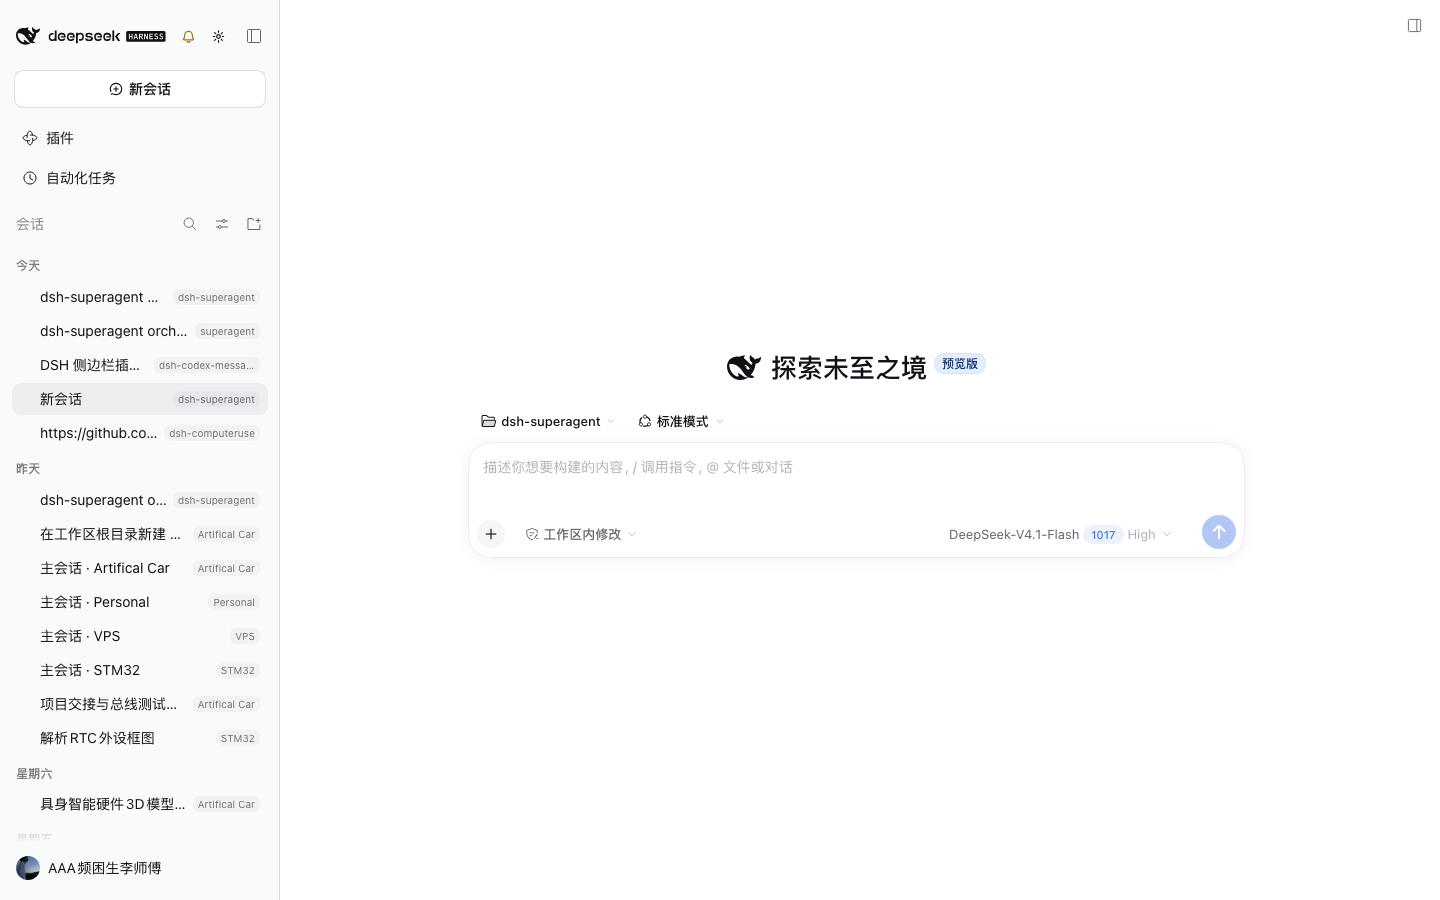
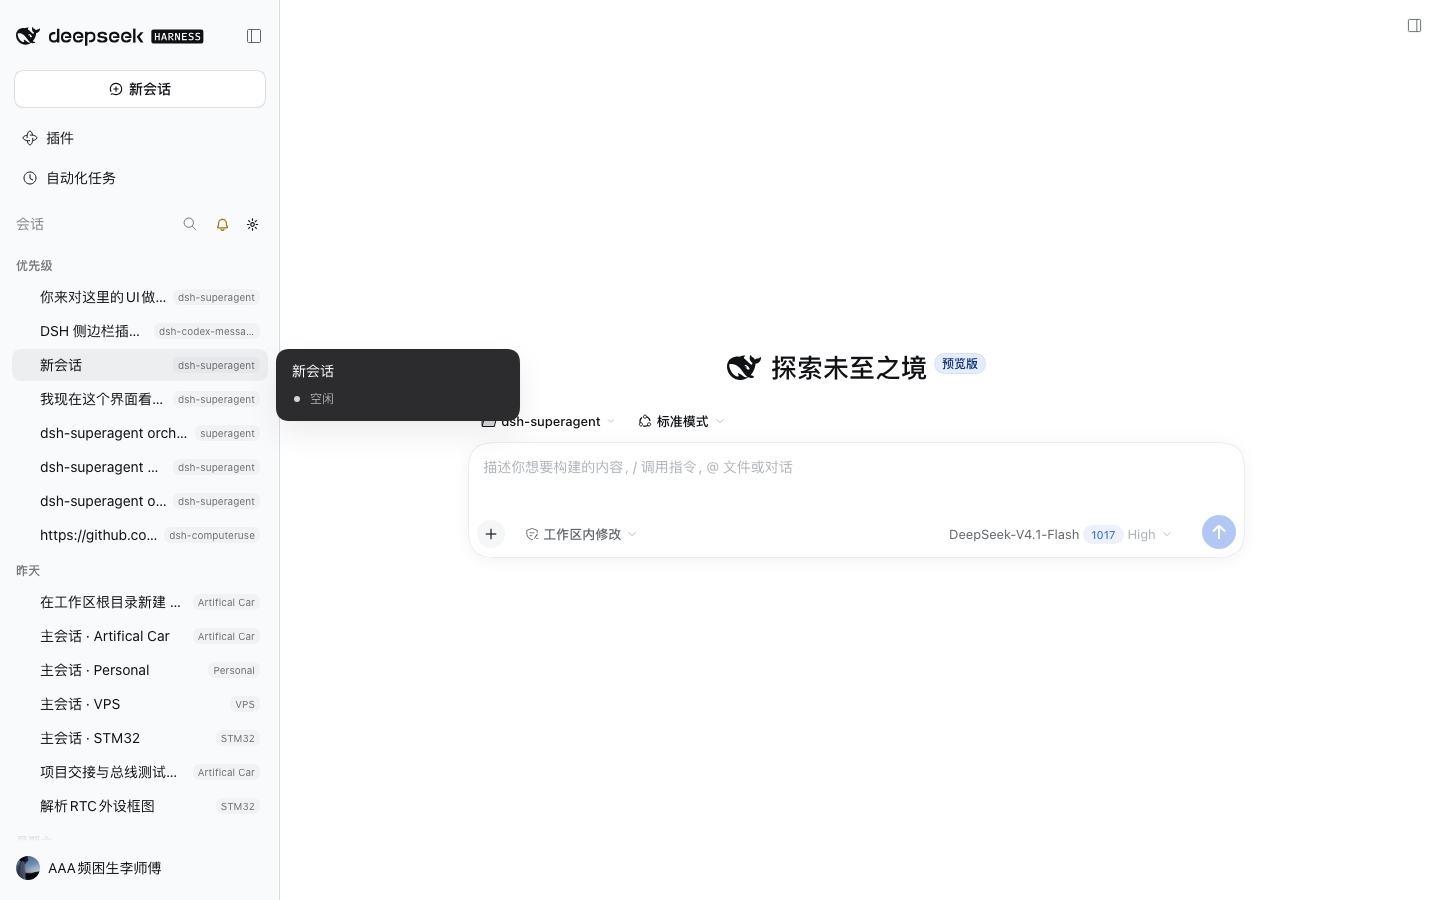
fix(sidebar): 修复悬停抖动，首段改名优先级
标题节点复用 + 只比自有节点相对顺序 + display 幂等 + 观察者跳过自写变动；中文首段由「今天」改为「优先级」，英文 Today→Priority。

diff --git a/lib/client.js b/lib/client.js
@@ -193,7 +193,9 @@ function createHostData(ctx) {
 // src/locale.js
 var LABELS = {
   zh: {
-    today: "\u4ECA\u5929",
+    // 第一段装的是「正在跑的会话 + 今天的会话」，用户要的名字是「优先级」：
+    // 活跃会话被强制提到这一段最前，它才是这段的主语。
+    today: "\u4F18\u5148\u7EA7",
     yesterday: "\u6628\u5929",
     earlier: "\u66F4\u65E9",
     weekdays: ["\u661F\u671F\u65E5", "\u661F\u671F\u4E00", "\u661F\u671F\u4E8C", "\u661F\u671F\u4E09", "\u661F\u671F\u56DB", "\u661F\u671F\u4E94", "\u661F\u671F\u516D"],
@@ -216,7 +218,7 @@ var LABELS = {
     themeNoticeDesc: "\u68C0\u6D4B\u5230 dsh-claude-style\uFF1A\u4FA7\u680F\u7684\u65E5\u671F\u6392\u5217\u4E0E\u9875\u9762\u7F29\u653E\u90FD\u7531\u4E3B\u9898\u8D1F\u8D23\uFF0C\u672C\u63D2\u4EF6\u4E0D\u4FEE\u6539\u4E3B\u9898\u7684\u754C\u9762\u3002\u505C\u7528\u4E3B\u9898\u540E\uFF0C\u672C\u63D2\u4EF6\u4F1A\u81EA\u52A8\u63A5\u7BA1\u65E5\u671F\u89C6\u56FE\u4E0E\u7F29\u653E\u3002"
   },
   en: {
-    today: "Today",
+    today: "Priority",
     yesterday: "Yesterday",
     earlier: "Earlier",
     weekdays: ["Sunday", "Monday", "Tuesday", "Wednesday", "Thursday", "Friday", "Saturday"],
@@ -918,45 +920,43 @@ function createDateView({ hostData, viewStore, locale, refreshBell, prepareEnabl
         const time = typeof updatedAt === "number" ? updatedAt : 0;
         const running = state?.running === true;
         const bucket = running ? { text: copy.today, rank: 0 } : bucketOf(time, now, copy);
-        seat.style.display = "";
+        if (seat.style.display !== "") seat.style.display = "";
         visible.push({ seat, row, time, running, bucket, workspace });
       }
       for (const seat of hiddenSeats) {
-        if (!nextHidden.has(seat)) seat.style.display = "";
+        if (!nextHidden.has(seat) && seat.style.display !== "") seat.style.display = "";
       }
-      for (const seat of nextHidden) seat.style.display = "none";
+      for (const seat of nextHidden) {
+        if (seat.style.display !== "none") seat.style.display = "none";
+      }
       hiddenSeats.clear();
       for (const seat of nextHidden) hiddenSeats.add(seat);
       visible.sort((left, right) => left.bucket.rank - right.bucket.rank || Number(right.running) - Number(left.running) || right.time - left.time);
       for (const item of visible) dressRow(item.row, item.workspace);
+      const spareHeaders = /* @__PURE__ */ new Map();
+      for (const header of headers) {
+        const text = header.textContent ?? "";
+        if (!spareHeaders.has(text)) spareHeaders.set(text, header);
+      }
       const nodes = [];
       let lastText = null;
       for (const item of visible) {
         if (item.bucket.text !== lastText) {
-          nodes.push(createHeader(item.bucket.text));
+          const header = spareHeaders.get(item.bucket.text) ?? createHeader(item.bucket.text);
+          nodes.push(header);
           lastText = item.bucket.text;
         }
         nodes.push(item.seat);
       }
-      const current = [...container.children];
-      const sameOrder = current.length === nodes.length && nodes.every((node, index) => current[index] === node);
-      if (sameOrder) {
-        for (const header of [...headers]) {
-          if (header.parentElement !== container) headers.delete(header);
-        }
-        for (const node of nodes) {
-          if (node.getAttribute?.(OWN_ATTR) !== null) headers.add(node);
-        }
-        return;
-      }
-      for (const header of headers) {
-        if (header.parentElement === container) header.remove();
-      }
+      const wanted = new Set(nodes);
+      const present = [...container.children].filter((child) => wanted.has(child));
+      const inOrder = present.length === nodes.length && present.every((child, index) => child === nodes[index]);
       headers.clear();
-      for (const node of nodes) container.appendChild(node);
       for (const node of nodes) {
         if (node.getAttribute?.(OWN_ATTR) !== null) headers.add(node);
       }
+      if (inOrder) return;
+      for (const node of nodes) container.appendChild(node);
     } finally {
       applying = false;
     }
@@ -1990,7 +1990,14 @@ function applyUnsafe(ctx) {
       dateView.schedule();
     });
   }
-  const observer = new MutationObserver(() => schedule());
+  function isOurMutation(record) {
+    const target = record.target;
+    return target instanceof Element && target.closest("[" + OWN_ATTR + "]") !== null;
+  }
+  const observer = new MutationObserver((records) => {
+    if (records.every(isOurMutation)) return;
+    schedule();
+  });
   observer.observe(document.body, { childList: true, subtree: true });
   const onResize = () => {
     zoom.handleResize();

diff --git a/src/date-view.js b/src/date-view.js
@@ -141,15 +141,17 @@ export function createDateView({ hostData, viewStore, locale, refreshBell, prepa
         const running = state?.running === true
         // 正在运行的会话算作今天：它的更新时间可能很久之前，但用户现在在看它。
         const bucket = running ? { text: copy.today, rank: 0 } : bucketOf(time, now, copy)
-        seat.style.display = ''
+        if (seat.style.display !== '') seat.style.display = ''
         visible.push({ seat, row, time, running, bucket, workspace })
       }
 
       // 2) 上一轮隐藏、这一轮可见的座位要恢复；反过来要隐藏。
       for (const seat of hiddenSeats) {
-        if (!nextHidden.has(seat)) seat.style.display = ''
+        if (!nextHidden.has(seat) && seat.style.display !== '') seat.style.display = ''
       }
-      for (const seat of nextHidden) seat.style.display = 'none'
+      for (const seat of nextHidden) {
+        if (seat.style.display !== 'none') seat.style.display = 'none'
+      }
       hiddenSeats.clear()
       for (const seat of nextHidden) hiddenSeats.add(seat)
 
@@ -163,39 +165,43 @@ export function createDateView({ hostData, viewStore, locale, refreshBell, prepa
       for (const item of visible) dressRow(item.row, item.workspace)
 
       // 5) 生成节点序列：段落变化处插标题。
+      //    标题节点必须复用上一轮的同名节点：每轮都新建的话，下面的「顺序没变」判定永远是 false，
+      //    于是每帧都删标题 + 重排全部座位 → 观察者再次触发 → 自激（实测每秒上千次 DOM 变动，
+      //    表现就是鼠标扫过会话行时整行轻微抖动）。
+      const spareHeaders = new Map()
+      for (const header of headers) {
+        const text = header.textContent ?? ''
+        if (!spareHeaders.has(text)) spareHeaders.set(text, header)
+      }
       const nodes = []
       let lastText = null
       for (const item of visible) {
         if (item.bucket.text !== lastText) {
-          nodes.push(createHeader(item.bucket.text))
+          const header = spareHeaders.get(item.bucket.text) ?? createHeader(item.bucket.text)
+          nodes.push(header)
           lastText = item.bucket.text
         }
         nodes.push(item.seat)
       }
 
-      // 6) 顺序没变就不动 DOM（避免每次数据刷新都抖动）。
-      const current = [...container.children]
-      const sameOrder = current.length === nodes.length && nodes.every((node, index) => current[index] === node)
-      if (sameOrder) {
-        // 标题节点上一步可能被换成新节点，回收掉旧的。
-        for (const header of [...headers]) {
-          if (header.parentElement !== container) headers.delete(header)
-        }
-        for (const node of nodes) {
-          if (node.getAttribute?.(OWN_ATTR) !== null) headers.add(node)
-        }
-        return
-      }
+      // 6) 只比较「我们这套节点」的相对顺序。
+      //    容器里还留着被隐藏的座位（display:none，不删是为了让宿主自己的状态不丢），
+      //    直接拿 container.children 和 nodes 逐位比会永远不相等，于是每帧都重排一遍
+      //    ——这正是鼠标扫过会话行时整行轻微抖动的来源。
+      const wanted = new Set(nodes)
+      const present = [...container.children].filter(child => wanted.has(child))
+      const inOrder = present.length === nodes.length && present.every((child, index) => child === nodes[index])
 
-      // 7) 清掉旧标题、按计划顺序重排：appendChild 对已有节点等价于移动。
-      for (const header of headers) {
-        if (header.parentElement === container) header.remove()
-      }
+      // 7) 标题集合对齐到这串节点（复用的节点留在集合里，落单的回收）。
       headers.clear()
-      for (const node of nodes) container.appendChild(node)
       for (const node of nodes) {
         if (node.getAttribute?.(OWN_ATTR) !== null) headers.add(node)
       }
+      if (inOrder) return
+
+      // 8) 顺序不对才动 DOM：appendChild 对已有节点等价于移动，按顺序 append 一遍即可，
+      //    标题不必删除重建（删了再插会让宿主以为列表结构变了，整片行重渲染）。
+      for (const node of nodes) container.appendChild(node)
     } finally {
       applying = false
     }

diff --git a/.debug/eval-final.js b/.debug/eval-final.js
@@ -1,0 +1,38 @@
+const sleep = ms => new Promise(r => setTimeout(r, ms));
+const waitFor = async (fn, timeout = 4000) => { const t0 = Date.now(); while (Date.now() - t0 < timeout) { const v = fn(); if (v) return v; await sleep(50) } return null };
+const out = {};
+// 关掉首次运行的 Preview Notice
+for (const btn of [...document.querySelectorAll('button')]) {
+  if (/^(Continue|继续)$/i.test((btn.textContent || '').trim())) { btn.click(); await sleep(400); break }
+}
+// 侧栏折叠时先展开
+const openBtn = document.querySelector('button[aria-label="打开侧边栏"], button[aria-label="Open sidebar"]');
+if (openBtn) { openBtn.click(); await sleep(1500) }
+const bell = await waitFor(() => document.querySelector('[data-codex-sidebar-bell]'));
+out.bell = Boolean(bell);
+if (bell && document.body.hasAttribute('data-codex-sidebar-date-view') === false) { bell.click(); await sleep(700) }
+out.dateModeOn = document.body.hasAttribute('data-codex-sidebar-date-view');
+out.headers = [...document.querySelectorAll('[data-codex-sidebar-owned][data-codex-sidebar-date-header]')].length;
+out.chips = document.querySelectorAll('.codex-sidebar-chip').length;
+// 齿轮 → 官方设置页
+const gear = [...document.querySelectorAll('[data-codex-sidebar-owned] button, button[data-codex-sidebar-owned]')].find(b => /Sidebar settings|侧栏设置/.test(b.getAttribute('aria-label') || ''));
+out.gear = Boolean(gear);
+if (gear) {
+  gear.click();
+  const nav = await waitFor(() => { const cells = [...document.querySelectorAll('button')].filter(b => String(b.className).includes('navCell')); return cells.length ? cells : null }, 6000);
+  out.navLabels = nav ? nav.map(b => (b.textContent || '').trim()) : [];
+  out.activeNav = nav ? nav.filter(b => /active/.test(String(b.className))).map(b => (b.textContent || '').trim()) : [];
+  out.cards = document.querySelectorAll('.codex-sidebar-settings-card').length;
+  out.switches = document.querySelectorAll('.codex-sidebar-settings [role="switch"], .codex-sidebar-switch').length;
+  const closeBtn = [...document.querySelectorAll('button')].find(b => /^(Close|关闭)$/.test((b.textContent || '').trim()));
+  if (closeBtn) { closeBtn.click(); await sleep(600) }
+  out.dialogClosed = !document.querySelector('button[class*="navCell"]');
+}
+// 关日期视图 → 还原工作区分组
+if (bell && document.body.hasAttribute('data-codex-sidebar-date-view')) { bell.click(); await sleep(900) }
+out.dateModeOff = !document.body.hasAttribute('data-codex-sidebar-date-view');
+out.headersAfter = document.querySelectorAll('[data-codex-sidebar-date-header]').length;
+out.chipsAfter = document.querySelectorAll('.codex-sidebar-chip').length;
+out.workspaceRowsAfter = document.querySelectorAll('[data-row-key^="workspace:"]').length;
+out.stored = localStorage.getItem('dsh-codex-sidebar.settings');
+return out;

diff --git a/src/entry.js b/src/entry.js
@@ -15,7 +15,7 @@
  * 缩放走 zoom.js：桌面 App 优先用宿主半边的窗口级 page zoom（better-sidebar 的
  * 面板才会跟着一起放大），网页版退回页面 CSS；主题在场时仍让位给主题的 pageZoom。
  */
-import { PLUGIN_ID, LOG_PREFIX, BODY_ATTR, DATE_MODE_ATTR } from './constants.js'
+import { PLUGIN_ID, LOG_PREFIX, BODY_ATTR, DATE_MODE_ATTR, OWN_ATTR } from './constants.js'
 import { readSettings, writeSettings, subscribeSettings } from './settings.js'
 import { createHostData } from './host-data.js'
 import { createLocale } from './locale.js'
@@ -237,8 +237,23 @@ function applyUnsafe(ctx) {
     })
   }
 
+  /**
+   * 判断一条变动是不是我们自己写的。
+   *
+   * 我们的标题、行内标签都带 OWN_ATTR，落在它们内部的改动不该再触发一轮重排：
+   * 否则「写节点 → 观察者 → 重排 → 写节点」会自激（实测每秒上千次 DOM 变动，
+   * 鼠标扫过会话行时整行轻微抖动就是这个）。
+   */
+  function isOurMutation(record) {
+    const target = record.target
+    return target instanceof Element && target.closest('[' + OWN_ATTR + ']') !== null
+  }
+
   // 侧栏与列表都是宿主渲染的：监听整页变化，合并到一帧里处理。
-  const observer = new MutationObserver(() => schedule())
+  const observer = new MutationObserver(records => {
+    if (records.every(isOurMutation)) return
+    schedule()
+  })
   observer.observe(document.body, { childList: true, subtree: true })
 
   // 窗口尺寸变化：CSS 缩放路线下，页面尺寸变量要跟着重算，满屏浮层也要重新量。

diff --git a/src/locale.js b/src/locale.js
@@ -11,7 +11,9 @@
 /** 两套用词。 */
 const LABELS = {
   zh: {
-    today: '今天',
+    // 第一段装的是「正在跑的会话 + 今天的会话」，用户要的名字是「优先级」：
+    // 活跃会话被强制提到这一段最前，它才是这段的主语。
+    today: '优先级',
     yesterday: '昨天',
     earlier: '更早',
     weekdays: ['星期日', '星期一', '星期二', '星期三', '星期四', '星期五', '星期六'],
@@ -34,7 +36,7 @@ const LABELS = {
     themeNoticeDesc: '检测到 dsh-claude-style：侧栏的日期排列与页面缩放都由主题负责，本插件不修改主题的界面。停用主题后，本插件会自动接管日期视图与缩放。'
   },
   en: {
-    today: 'Today',
+    today: 'Priority',
     yesterday: 'Yesterday',
     earlier: 'Earlier',
     weekdays: ['Sunday', 'Monday', 'Tuesday', 'Wednesday', 'Thursday', 'Friday', 'Saturday'],

diff --git a/README.md b/README.md
@@ -177,3 +177,12 @@ node .debug/verify2.mjs "$URL" .debug/prep-zoom.js .debug/measure-portal-fit.js 
 - [ ] 日期段落之间加可折叠状态；
 - [ ] 屏蔽规则支持按工作区 id（现在存标题，改标题会失配）；
 - [ ] 设置页加「恢复默认」。
+## 更新 2026-11-02：悬停抖动修复 + 首段改名
+
+- **首段改名**：日期视图第一段由「今天 / Today」改为「优先级 / Priority」。这一段装的是「正在运行的会话 + 今天的会话」，运行中的会话被强制提到最前，叫「今天」名不副实。改动在 `src/locale.js`。
+- **悬停抖动修复**（`src/date-view.js` + `src/entry.js`）：
+  1. 段落标题节点按文本复用，不再每轮新建（新建的节点与容器里旧节点永不相等，顺序判定永远失败）；
+  2. 顺序判定只比较「本插件这套节点」的相对先后——容器里还留着被隐藏的座位（`display:none`，有意不删以免丢宿主状态），拿 `container.children` 与计划节点逐位比必然不相等，会导致每帧全量重排；
+  3. `display` 只在取值真的变化时才写；
+  4. `MutationObserver` 跳过落在 `[data-codex-sidebar-owned]` 内部的变动，避免「写节点 → 观察者 → 重排」自激。
+- **实测**（`.debug/hover.mjs`，悬停会话行 14×70ms 采样）：修复前 `childList` 变动约 1500 次/秒（列表被无限重排，表现为悬停时整行轻微抖动）；修复后无主题环境 0 次、装 dsh-claude-style 的环境 1 次，两种环境下行的位置/尺寸变化均为 0。

diff --git a/交接-dsh-codex-sidebar.md b/交接-dsh-codex-sidebar.md
@@ -128,3 +128,8 @@
 - 发现中优先级缺陷：`src/settings.js:38-46` 在 `localStorage.setItem` 失败时只通知订阅者、不保留内存设置；随后 `readSettings()` 会回到旧值。现有注释“本次会话仍然生效”与实际行为不符。
 - 运行时覆盖缺口：本机无头 Chromium 启动被 macOS Mach 权限拒绝，`dsh --profile codexprobe` 未产出可用 URL；因此当前用户未提交的顶栏/缩放改动尚未在本轮独立复验。
 - 保留限制：当前 `entry.js:230` 仅在日期视图未激活时调用 `topbar.mount()`；若宿主在日期视图激活期间替换顶栏节点，按钮恢复行为仍需真实页面验证。
+## 2026-11-02 补记
+
+- 完成：首段改名（今天 → 优先级 / Today → Priority）；修复日期视图悬停抖动（标题节点复用 + 只比自有节点相对顺序 + display 幂等 + 观察者跳过自写变动）。
+- 验证：`.debug/hover.mjs` 实测 codexprobe 0 次 DOM 变动、desktopmirror（含主题）1 次，deltas 全 0；日期标题 [优先级, 昨天, 星期六, 星期五, 星期二, 更早]。
+- 未验证：真实 desktop App 需用户 Cmd+Q 重开后确认（本轮只跑 web 镜像 profile）。
